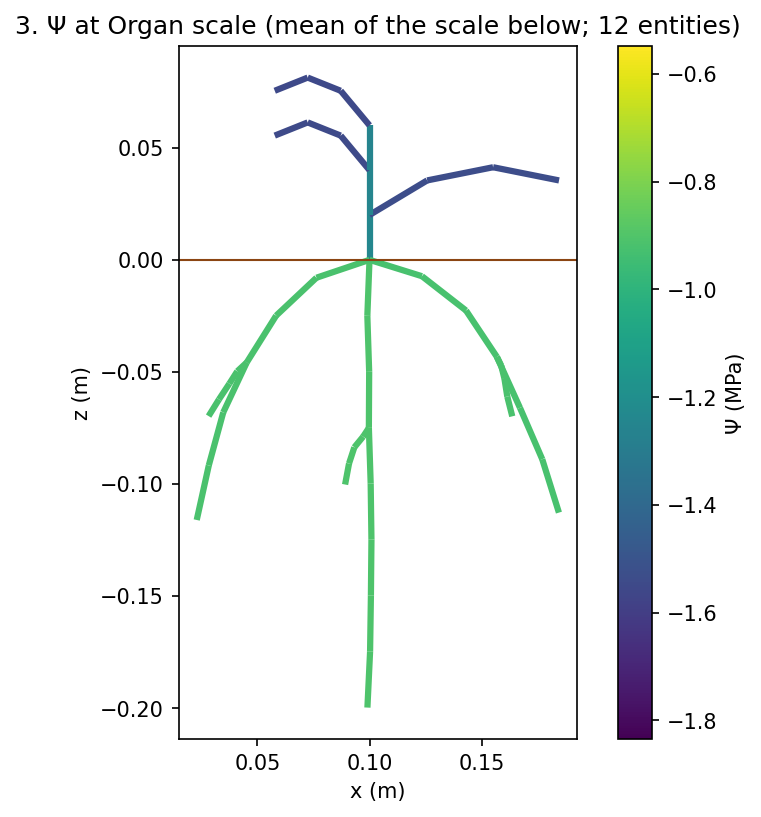
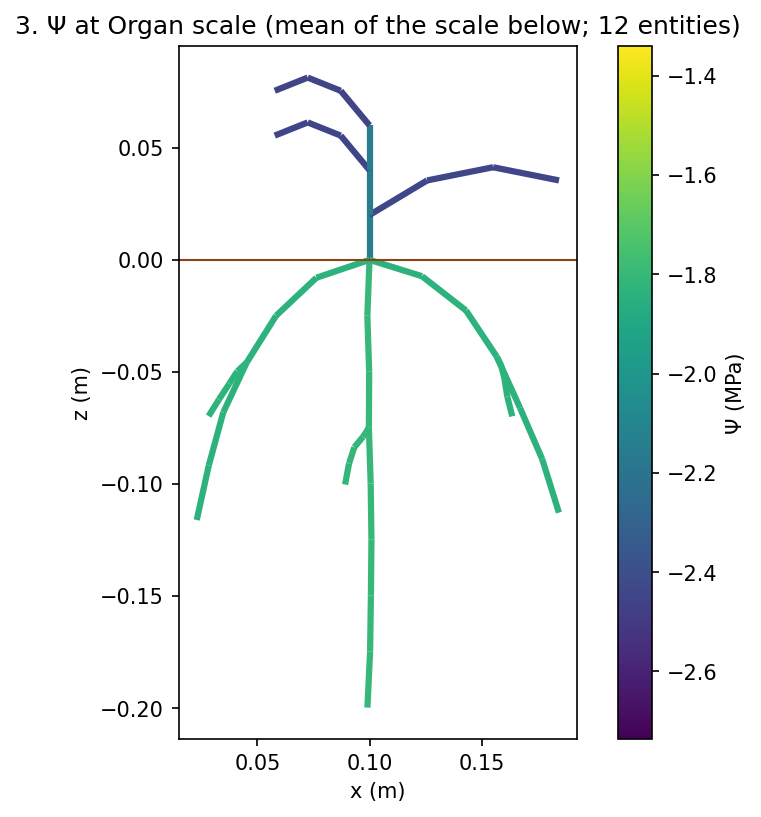
SPAC example: less conductive soil, uptake limited by the soil

diff --git a/examples/soil_plant_atmosphere/models.py b/examples/soil_plant_atmosphere/models.py
@@ -55,7 +55,7 @@ class Soil(CompositeModel):
     """
 
     def __init__(self, populations, scene_xrange, scene_yrange, time_step, depth=0.4, voxel=0.025,
-                 topsoil_K=5., subsoil_K=2., topsoil_depth=0.2, **scenario):
+                 topsoil_K=1.5, subsoil_K=0.6, topsoil_depth=0.2, **scenario):
         shape = (max(1, round(scene_xrange / voxel)), max(1, round(scene_yrange / voxel)), max(1, round(depth / voxel)))
         self.grid = ArrayDataStructure(shape=shape, dx=(scene_xrange / shape[0], scene_yrange / shape[1],
                                                         depth / shape[2]), periodic=(True, True, False))

diff --git a/devlog.md b/devlog.md
@@ -2046,3 +2046,4 @@ Per-file counts:
 - **Upscaling series (your request):** `upscaling.py` derives the water potential at SubOrgan, Organ, Axis and Plant, each the mean of the scale below (one `derive` per scale); `plotting.upscaling_series` draws one graph per scale on one colour scale (the first row for the population). The smoke test checks the means and the five figures.
 - **Top view (your request):** shoot segments drawn last and twice as thick as the roots (2.4 vs 1.2).
 - **Upscaling over every MPG scale (your remark):** Phytomer and GrowthUnit added between Organ and Axis (7 graphs). Layer and Cell hold no entity in this generator (the Compartments are directly below the segments).
+- **Soil-limited uptake (your request, option 2):** soil conductivities divided by about 3.3 (topsoil 1.5, subsoil 0.6). The horizontal anomaly of soil Ψ grows about 3× (population 0.019 → 0.052 MPa), but the vertical gradient grows as much (surface −1.4 → −4.4 MPa), so the slices still look layered. Leaf Ψ min −2.7 (one plant) and −5.8 MPa (population); converges in 6 and 9 steps.

diff --git a/examples/soil_plant_atmosphere/README.md b/examples/soil_plant_atmosphere/README.md
@@ -27,7 +27,7 @@ Volumes in mm³ keep the solves' residuals well above the solver's absolute tole
 
 ## One plant
 
-The scene converges in five steps (largest change of Ψ: 2.4e-01, 9.9e-04, 8.6e-06, 1.1e-07 MPa). Transpiration
+The scene converges in six steps (largest change of Ψ: 7.9e-01, 1.1e-02, 3.1e-04, 1.3e-05, 6.5e-07 MPa). Transpiration
 (0.076 mm³ s⁻¹) equals the root uptake and the water taken from the soil; the water table supplies it and the soil
 evaporation.
 
